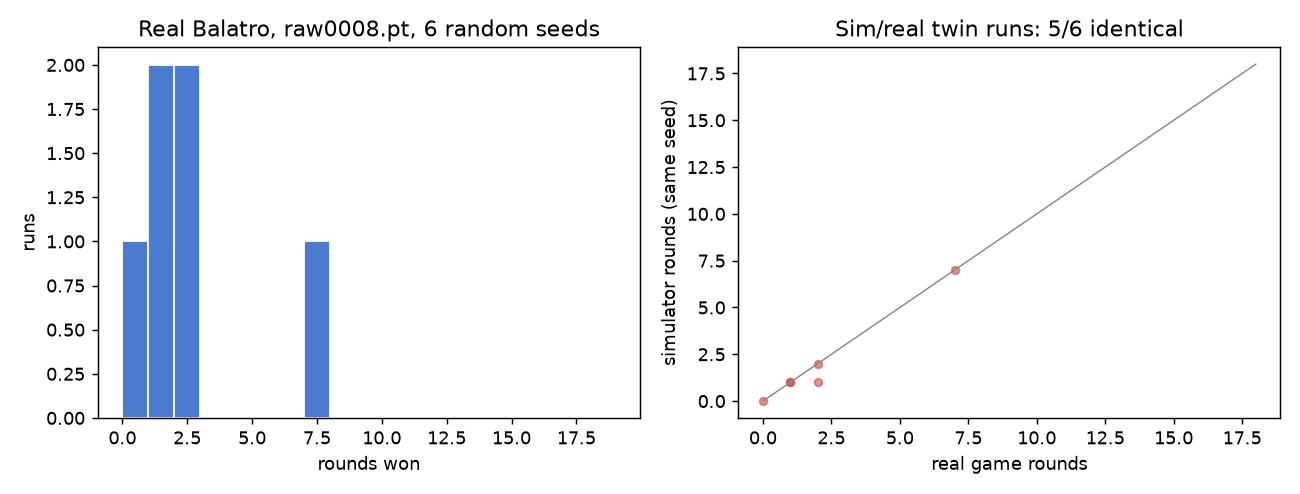
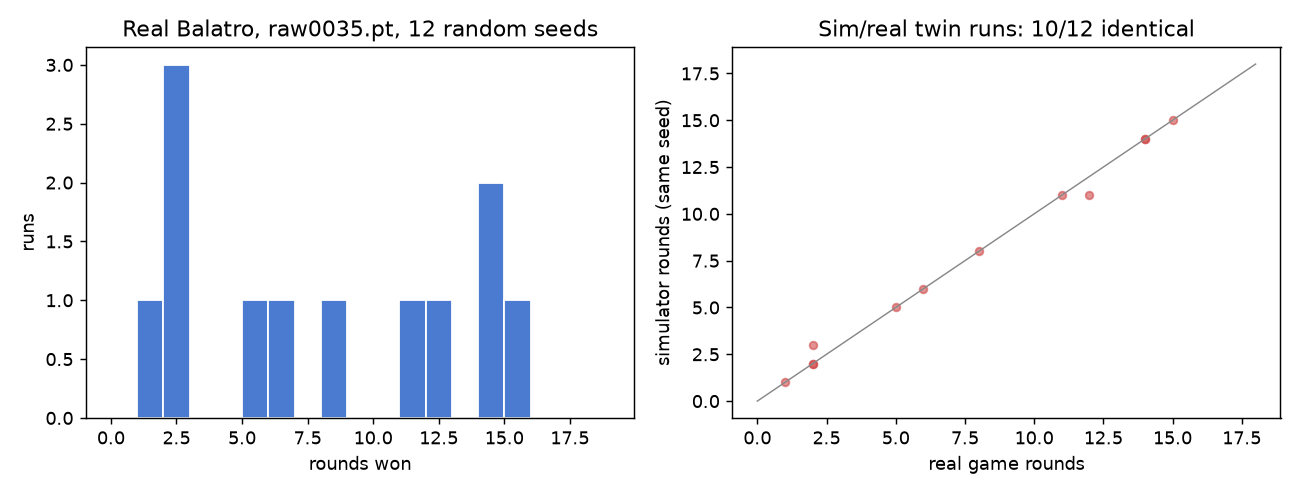
Simulator: Satellite pays per distinct Planet used (jackdaw never set the count); chart layout
Seed 2IRGPA5L: the sim was $1 short from the first cash-out (real 2 rounds vs sim 3); with the
count synced from jackdaw's consumable usage the simulator replays the real run.

diff --git a/laya_player/report.py b/laya_player/report.py
@@ -113,8 +113,8 @@ def _setting_changes(its: list[dict]) -> list[tuple[float, str]]:
 def rl_curve(its: list[dict]) -> None:
     """Stage 2 in the Stage 1 chart style. Seeds are fresh every iteration, so the champion line is the running
     mean of every head-to-head score the reigning champion has posted."""
-    fig, ax = plt.subplots(figsize=(10, 4.2))
     x = [r["iter"] for r in its]
+    fig, ax = plt.subplots(figsize=(max(10.0, 0.32 * len(x)), 5.0))
     rng = random.Random(0)
     jit = lambda i, n, off: [i + off + rng.uniform(-0.11, 0.11) for _ in range(n)]
     for i, r in zip(x, its):  # every game, when the iteration recorded them (older ones kept means only)
@@ -139,17 +139,18 @@ def rl_curve(its: list[dict]) -> None:
     ax.step(x, line, where="post", c="#d04a4a", lw=1.5, label="champion (mean of its head-to-heads)")
     base = st.mean(scores.get("raw_init.pt", [0]))
     ax.axhline(base, c="#888", lw=0.8, ls="--")
-    ax.text(x[0], base - 0.45, f"raw_init (kickoff imitation) {base:.2f}", fontsize=8, color="#666")
+    ax.text(x[-1] + 0.6, base, f"raw_init {base:.2f}", fontsize=8, color="#666", va="center")
     ax.axhline(9.01, c="#d9a0a0", lw=0.8, ls="--")
-    ax.text(x[0], 9.1, "Stage 1 champion sim0053 9.01 (combo actions, fixed seeds)", fontsize=8, color="#b07070")
+    ax.text(x[-1] + 0.6, 9.01, "Stage 1\nsim0053 9.01", fontsize=8, color="#b07070", va="center")
     top = max([9.5] + [max(r.get("test_games") or [0]) + 0.8 for r in its] + [max(r.get("train_games") or [0]) + 0.8 for r in its])
-    for at, txt in _setting_changes(its):
+    for k, (at, txt) in enumerate(_setting_changes(its)):  # staggered so close changes stay readable
         ax.axvline(at, c="k", ls=":", lw=0.8)
-        ax.text(at - 0.15, 0.3, txt, fontsize=7, ha="right", rotation=90, va="bottom")
-    ax.set(xlabel="iteration", ylabel="rounds won per run", ylim=(0, top),
+        ax.text(at - 0.15, top * (0.97 - 0.2 * (k % 3)), txt, fontsize=7, ha="right", rotation=90, va="top",
+                bbox=dict(facecolor="white", edgecolor="none", alpha=0.7, pad=0.5))
+    ax.set(xlabel="iteration", ylabel="rounds won per run", ylim=(0, top), xlim=(x[0] - 0.8, x[-1] + 2.6),
            title="Stage 2: Laya clicks (raw actions), pure RL in the jackdaw simulator (Red Deck / White Stake)")
     ax.xaxis.set_major_locator(matplotlib.ticker.MaxNLocator(integer=True))
-    ax.legend(loc="upper right", fontsize=8)
+    ax.legend(loc="upper center", bbox_to_anchor=(0.5, -0.13), ncol=4, fontsize=8, frameon=False)
     fig.tight_layout()
     fig.savefig(OUT / "stage2_rl.png", dpi=130)
 

diff --git a/laya_player/sim.py b/laya_player/sim.py
@@ -307,6 +307,16 @@ _FORCED: dict[int, list[str]] = {}
 _orig_get_new_boss = None
 
 
+def _sync_satellite(gs: dict) -> None:
+    """jackdaw's Satellite pays from ability["planet_types_used"], which nothing in jackdaw sets, so it
+    always paid $0; the real game pays $1 per distinct Planet used (seed 2IRGPA5L: $1 short, then a
+    different play). Keep the count in sync from the usage jackdaw does track."""
+    n = sum(1 for v in (gs.get("consumable_usage") or {}).values() if v.get("set") == "Planet")
+    for j in gs.get("jokers", []):
+        if j.center_key == "j_satellite":
+            j.ability["planet_types_used"] = n
+
+
 def _install_boss_hook() -> None:
     global _orig_get_new_boss
     from jackdaw.engine import blind as jblind
@@ -375,6 +385,7 @@ class SimGame:
                 for area in ("deck", "hand", "play", "discard_pile"):
                     for c in self.gs.get(area, []):
                         c.ability.pop("forced_selection", None)
+                _sync_satellite(self.gs)
                 self.gs = engine.step(self.gs, CashOut())
                 continue
             s = canonical(self.gs)
@@ -408,6 +419,7 @@ class SimGame:
             self.selected, self.deselects = [], 0
             return True
         try:
+            _sync_satellite(self.gs)
             self.gs = engine.step(self.gs, to_engine(s, a))
         except (IllegalActionError, IndexError, KeyError, ValueError):
             self.illegal += 1

diff --git a/reports/REPORT.md b/reports/REPORT.md
@@ -6,22 +6,27 @@ Laya clicks like a player (`select K♥` ... `play selected`): one choice questi
 
 Kickoff (teacher clicks, held-out games): agreement 37.7% before -> **72.0%** after (hand 71.2%, shop 66.0%, pack 83.3%).
 
-RL: 10 iterations, champion **raw0010.pt**.
+RL: 38 iterations, champion **raw0035.pt**.
 
 ![rl](stage2_rl.png)
 
 | iter | train | new weights | champion | paired t | champion after |
 |---|---|---|---|---|---|
-| 1 | 3.47 | 1.38 | 2.16 | -1.7 | raw_init.pt |
-| 2 | 1.83 | 5.88 | 2.34 | +5.3 | raw0002.pt |
-| 3 | 1.92 | 4.50 | 5.09 | -1.1 | raw0002.pt |
-| 4 | 1.86 | 2.86 | 4.09 | -2.2 | raw0002.pt |
-| 5 | 2.20 | 2.36 | 5.20 | -6.8 | raw0002.pt |
-| 6 | 3.10 | 3.19 | 4.49 | -3.4 | raw0002.pt |
-| 7 | 3.48 | 6.09 | 5.16 | +2.8 | raw0007.pt |
-| 8 | 3.20 | 6.02 | 5.20 | +2.5 | raw0008.pt |
-| 9 | 3.86 | 5.91 | 5.59 | +0.9 | raw0008.pt |
-| 10 | 3.04 | 5.25 | 4.69 | +1.7 | raw0010.pt |
+| 24 | 5.12 | 6.11 | 6.01 | +0.3 | raw0021.pt |
+| 25 | 6.38 | 5.63 | 5.75 | -0.3 | raw0021.pt |
+| 26 | 4.48 | 6.69 | 6.35 | +0.9 | raw0021.pt |
+| 27 | 5.02 | 6.41 | 6.43 | -0.1 | raw0021.pt |
+| 28 | 6.49 | 6.14 | 6.20 | -0.1 | raw0021.pt |
+| 29 | 5.26 | 5.84 | 5.62 | +0.4 | raw0021.pt |
+| 30 | 5.87 | 5.95 | 6.25 | -0.7 | raw0021.pt |
+| 31 | 5.68 | 5.09 | 6.47 | -3.3 | raw0021.pt |
+| 32 | 5.11 | 6.23 | 5.73 | +1.7 | raw0032.pt |
+| 33 | 5.49 | 5.90 | 5.54 | +1.4 | raw0033.pt |
+| 34 | 6.20 | 6.02 | 5.73 | +1.3 | raw0034.pt |
+| 35 | 5.61 | 6.50 | 6.17 | +1.2 | raw0035.pt |
+| 36 | 6.07 | 5.39 | 5.73 | -1.5 | raw0035.pt |
+| 37 | 5.52 | 5.67 | 5.42 | +0.8 | raw0035.pt |
+| 38 | 5.86 | 5.08 | 6.16 | -2.5 | raw0035.pt |
 
 Real Balatro validation:
 
@@ -30,7 +35,13 @@ Real Balatro validation:
 | raw_init.pt | 4 | 0.25 | 1 | 1.0 | 0 | 4/4 |
 | raw0002.pt | 12 | 5.33 | 12 | 2.5 | 0 | 11/12 |
 | raw0007.pt | 3 | 9.00 | 11 | 3.3 | 0 | 3/3 |
-| raw0008.pt | 6 | 2.17 | 7 | 1.3 | 0 | 5/6 |
+| raw0008.pt | 7 | 4.14 | 16 | 2.0 | 0 | 6/7 |
+| raw0010.pt | 37 | 6.76 | 17 | 2.9 | 0 | 34/37 |
+| raw0021.pt | 51 | 5.33 | 20 | 2.4 | 0 | 50/51 |
+| raw0032.pt | 1 | 26.00 | 26 | 9.0 | 1 | 1/1 |
+| raw0033.pt | 1 | 5.00 | 5 | 2.0 | 0 | 1/1 |
+| raw0034.pt | 6 | 4.83 | 14 | 2.2 | 0 | 6/6 |
+| raw0035.pt | 12 | 7.67 | 15 | 3.1 | 0 | 10/12 |
 
 ![real2](stage2_real.png)
 

diff --git a/CHANGELOG.md b/CHANGELOG.md
@@ -52,6 +52,9 @@
   hidden cards last, so a hidden card's place reveals nothing; the simulator kept the rank-sorted order, where `??`
   between a 9 and a 6 must be a 7 or 8. Training learned from that leak and the runs diverged (seed C6HRB2UR: real 12
   vs sim 11; with the fix 12 = 12). The mod now compares ids numerically (text order broke at 999 → 1000).
+- **jackdaw's Satellite never paid out**: it reads `ability["planet_types_used"]`, which jackdaw never sets; the real
+  game pays $1 per distinct Planet used. The adapter now syncs the count from jackdaw's own consumable usage before
+  every engine step (seed 2IRGPA5L: sim $1 short from the first cash-out, real 2 vs sim 3; with the fix 2 = 2).
 - **First real-game win**: raw0032 on seed MST5TRB3 beat Ante 8 (Cerulean Bell, playable since the audit fixes) and
   reached round 26 in endless; simulator twin identical.
 - RL iterations record every game (self-play, new weights, champion per seed); the Stage 2 chart plots all of them.
